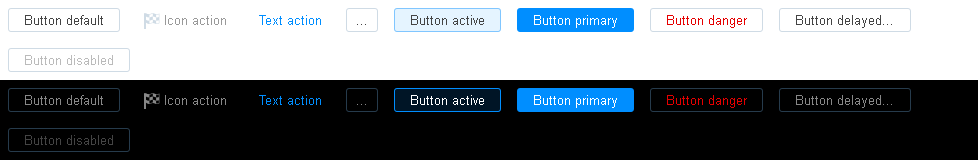
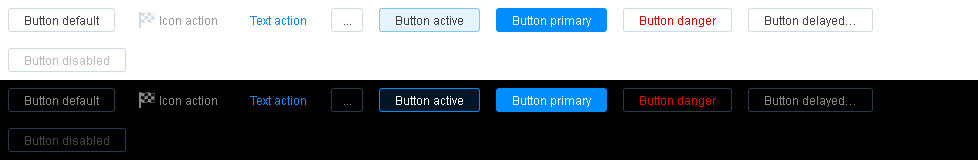
cosmetics
Former-commit-id: 25656117e039d28f4b1b38609c73c27415d3b429

diff --git a/components/button/button.css b/components/button/button.css
@@ -1,11 +1,11 @@
-@value unit, font, border-radius, icon-color, border-hover-color, white-color, black-color, text-color, darker-gray-color, selected-background-color, dark-selected-background-color, main-color, error-color, dark-gray-color, link-hover-color, icon-hover-color, gray-color, ease from "../global/global.css";
+@value unit, font-smaller-lower, border-radius, icon-color, border-hover-color, white-color, black-color, text-color, darker-gray-color, selected-background-color, dark-selected-background-color, main-color, error-color, dark-gray-color, link-hover-color, icon-hover-color, gray-color, ease from "../global/global.css";
 
 @value button-shadow: inset 0 0 0 1px;
 @value height: calc(unit * 3);
 @value loader-width: calc(unit * 8);
 
 .button {
-  composes: font;
+  composes: font-smaller-lower;
   text-decoration: none;
 
   display: inline-block;
